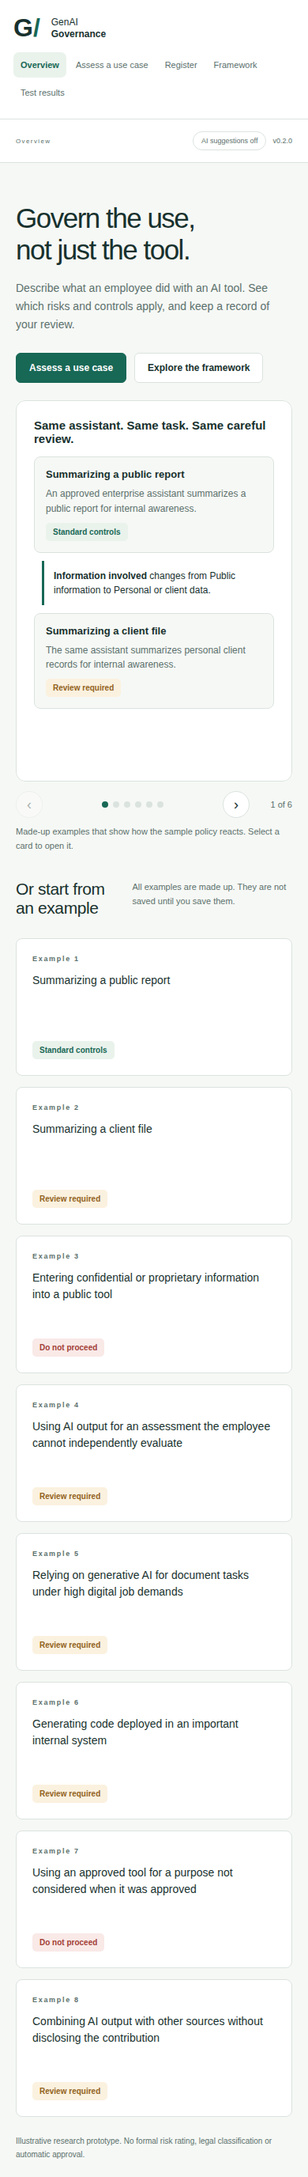
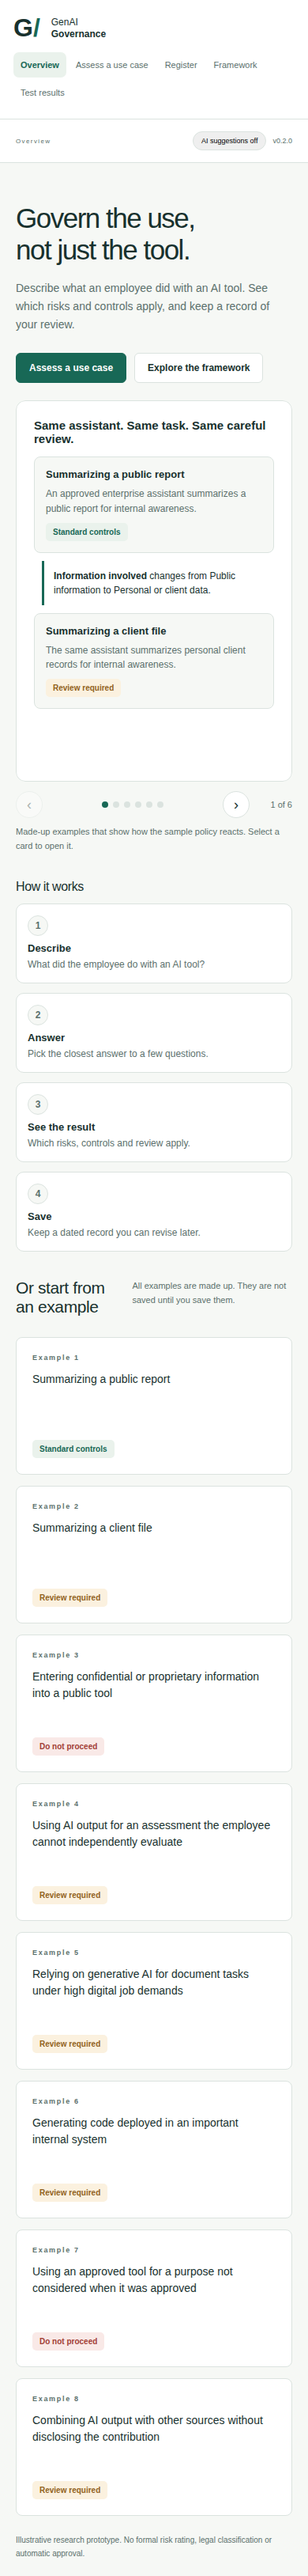
Explain the AI suggestions and add guidance to empty states
Make the header pill open a dialog that says what AI suggestions are, why
they are off and how to turn them on, or, when they are on, which provider is
used and a switch to pause them in this browser.

Add a short step-by-step strip to the overview and to the assessment page, the
latter marking each step as it is completed. Give the empty register a
three-step guide with a button to try an example. Rewrite the test results page
as three plain questions with their status, and show the real benchmark size.

diff --git a/web/app.js b/web/app.js
@@ -110,6 +110,85 @@ function show(page){
   }
   );
 }
+
+function copyText(text,btn){
+  const done=()=>{const old=btn.textContent;btn.textContent='Copied';setTimeout(()=>{btn.textContent=old;},1500);};
+  try{navigator.clipboard.writeText(text).then(done,()=>{});}catch(e){}
+}
+function openDialog(title,...children){
+  const d=el('dialog',{class:'modal','aria-label':title});
+  const close=el('button',{type:'button',class:'modal-close','aria-label':'Close'},'×');
+  close.addEventListener('click',()=>d.close());
+  d.addEventListener('click',e=>{if(e.target===d)d.close();});
+  d.addEventListener('close',()=>d.remove());
+  d.append(close,el('h2',{},title),...children);
+  document.body.append(d);
+  d.showModal();
+  return d;
+}
+function aiPaused(){
+  try{return localStorage.getItem('ai-paused')==='1';}catch(e){return false;}
+}
+function setAiPaused(v){
+  try{localStorage.setItem('ai-paused',v?'1':'0');}catch(e){}
+}
+function aiUsable(){return boot.live_enabled&&!aiPaused();}
+function updatePill(){
+  const pill=$('mode-label');
+  pill.textContent=!boot.live_enabled?'AI suggestions off':aiPaused()?'AI suggestions paused':'AI suggestions on';
+  pill.classList.toggle('on',aiUsable());
+}
+const ENV_SNIPPET='ENABLE_LIVE_CLASSIFICATION=1\nLLM_PROVIDER=openai\nLLM_MODEL=the-model-name-from-your-provider-account\nOPENAI_API_KEY=your-key';
+function openAiDialog(){
+  const body=[];
+  body.push(el('p',{},'On the Assess page, an AI model can read your description of what an employee did and suggest the answers to the questions. You always check the answers yourself, and the fixed rules (not the AI) decide the result.'));
+  if(!boot.live_enabled){
+    const pre=el('pre',{},ENV_SNIPPET);
+    const copy=el('button',{type:'button',class:'secondary button-small'},'Copy these lines');
+    copy.addEventListener('click',()=>copyText(ENV_SNIPPET,copy));
+    body.push(el('div',{class:'modal-state off'},'Right now: off'),
+      el('p',{},'It is off because it needs an account with an AI provider (OpenAI, Anthropic, Google or xAI) and a private key, which can cost a little money. While it is off, nothing you type leaves this computer, and you answer the questions yourself. Everything else in the app works normally.'),
+      el('h3',{},'To turn it on'),
+      el('ol',{class:'how'},
+        el('li',{},'Stop the app in the terminal with Ctrl+C.'),
+        el('li',{},'Run ',el('code',{},'python -m pip install -r requirements-llm.txt')),
+        el('li',{},'Copy ',el('code',{},'.env.example'),' to ',el('code',{},'.env'),' and fill in these lines with your own provider, model and key:',pre,copy),
+        el('li',{},'Start the app again with ',el('code',{},'python app.py'),'.')));
+    body.push(el('p',{class:'hint'},'There is no switch on this page because the key must stay in your own file. This app never asks you to type it here.'));
+  }else{
+    const label=el('label',{class:'checkbox'});
+    const box=el('input',{type:'checkbox',checked:!aiPaused()});
+    box.addEventListener('change',()=>{setAiPaused(!box.checked);updatePill();if(currentPage==='assess')renderAssess();});
+    label.append(box,'Use AI suggestions in this browser');
+    body.push(el('div',{class:'modal-state on'},'Right now: '+(aiPaused()?'paused':'on')),
+      el('p',{},'Provider: '+boot.provider+(boot.model?', model: '+boot.model:'')+'. A description is sent only when you tick the confirmation box and press "Suggest answers with AI". You can make up to '+(boot.daily_limit||'any number of')+' suggestions a day.'),
+      label,
+      el('p',{class:'hint'},'Untick to pause them here without changing any settings. To turn them off completely, set ENABLE_LIVE_CLASSIFICATION=0 in your .env file and restart the app.'));
+  }
+  openDialog('AI suggestions',...body);
+}
+
+function flow(steps,active=-1,done=[]){
+  const ol=el('ol',{class:'flow'});
+  steps.forEach((s,i)=>ol.append(el('li',{class:(done.includes(i)?'done ':'')+(i===active?'current':'')},
+    el('span',{class:'flow-dot'},done.includes(i)?'✓':String(i+1)),
+    el('strong',{},s[0]),el('span',{class:'flow-text'},s[1]))));
+  return ol;
+}
+const ASSESS_STEPS=[['Describe','Say what the employee did.'],['Answer','Pick the closest answer to each question.'],['Save','Add who owns and who reviewed it.']];
+function updateFlow(){
+  const holder=$('assess-flow');
+  if(!holder)return;
+  const described=!!(state.name.trim()||state.description.trim());
+  const answered=state.draft.forms.length>0||boot.dimensions.some(d=>state.draft[d.id]!==boot.unknown)||state.draft.approval_status!==boot.unknown;
+  const ready=!$('save-record').disabled;
+  const done=[];
+  if(described)done.push(0);
+  if(answered)done.push(1);
+  if(ready)done.push(2);
+  const active=[0,1,2].find(i=>!done.includes(i));
+  holder.replaceChildren(flow(ASSESS_STEPS,active===undefined?-1:active,done));
+}
 function newAssessment(example=null){
   state.draft=example?structuredClone(example.case):blankCase();
   state.name=example?example.name:'';
@@ -185,6 +264,7 @@ function renderOverview(){
       el('p',{class:'lead'},'Describe what an employee did with an AI tool. See which risks and controls apply, and keep a record of your review.'),
       el('div',{class:'actions'},button('Assess a use case',()=>newAssessment(),true),button('Explore the framework',()=>show('framework')))),
     pairCarousel()));
+  root.append(el('div',{class:'how-it-works'},el('h2',{},'How it works'),flow([['Describe','What did the employee do with an AI tool?'],['Answer','Pick the closest answer to a few questions.'],['See the result','Which risks, controls and review apply.'],['Save','Keep a dated record you can revise later.']])));
   root.append(el('div',{class:'section-head'},el('h2',{},'Or start from an example'),el('p',{},'All examples are made up. They are not saved until you save them.')));
   const cards=el('div',{class:'cards'});
   boot.examples.forEach((e,i)=>cards.append(el('button',{class:'sample',type:'button',on:{click:()=>newAssessment(e)}},
@@ -248,6 +328,7 @@ function updateSaveState(){
   if(!$('confirm-review').checked)missing.push('your confirmation');
   save.disabled=missing.length>0;
   $('save-hint').textContent=missing.length?'To save, add '+missing.join(', ')+'.':'';
+  updateFlow();
 }
 let assessmentTimer;
 async function refreshDecision(){
@@ -263,14 +344,14 @@ async function refreshDecision(){
 function renderAssess(){
   state.draft=state.draft||blankCase();
   const root=$('assess');
-  root.replaceChildren(heading(state.parentId?'Review an existing use case':'Assess a use case','Describe what happened, answer the questions, and the result updates as you go.'));
+  root.replaceChildren(heading(state.parentId?'Review an existing use case':'Assess a use case','Describe what happened, answer the questions, and the result updates as you go.'),el('div',{id:'assess-flow',class:'assess-flow'}));
   const grid=el('div',{class:'assess-grid'}),left=el('form',{id:'assessment-form'}),right=el('div',{id:'decision-panel'});
 
   const extraction=panel(el('h2',{class:'panel-title'},'Describe the activity'),
     field('Name',input('case-name',state.name)),
     field('What did the employee do?',el('textarea',{id:'description',maxlength:1500,placeholder:'Which tool, what information, what task, and how the output was used or checked.'},state.description)));
   const where=boot.live_enabled?boot.provider+(boot.model?' ('+boot.model+')':''):'';
-  if(boot.live_enabled){
+  if(aiUsable()){
     const consent=el('label',{class:'checkbox'},el('input',{id:'external-consent',type:'checkbox'}),'Send this description to '+where+'.');
     const classify=button('Suggest answers with AI',async()=>{
       readForm();
@@ -286,7 +367,9 @@ function renderAssess(){
     });
     extraction.append(consent,classify);
   }else{
-    extraction.append(el('p',{class:'hint'},'AI suggestions are off, so answer the questions yourself. Nothing you type leaves this computer.'));
+    const why=el('button',{type:'button',class:'link'},boot.live_enabled?'AI suggestions are paused. What is this?':'AI suggestions are off. What is this?');
+    why.addEventListener('click',openAiDialog);
+    extraction.append(el('p',{class:'hint'},'Nothing you type leaves this computer. ',why));
   }
 
   const answers=panel(el('h2',{class:'panel-title'},'Check the answers'));
@@ -391,9 +474,15 @@ async function renderRegister(){
       }
       ,el('h2',{
       }
-      ,records.length?'No matching records':'No assessments recorded yet'),el('p',{
+      ,records.length?'No matching records':'Nothing saved yet'),el('p',{
       }
-      ,'Explore a synthetic example, review its characteristics, and save an assessment to start your register.')));
+      ,records.length?'Try a different search.':'This is where your saved reviews will appear. It is empty because you have not saved one yet.')));
+      if(!records.length){
+        holder.append(el('div',{class:'panel register-empty'},el('h3',{},'Want to see how it works? Try this:'),
+          flow([['Open an example','It fills in the questions for you.'],['Look at the result','It shows the risks and controls on the right.'],['Save it','Add an owner and a reviewer, tick the box and press Save review. It then appears here.']]),
+          el('div',{class:'actions'},button('Try an example',()=>newAssessment(boot.examples[0]),true),button('Start from scratch',()=>newAssessment())),
+          el('p',{class:'hint'},'Everything you save stays in a file on this computer.')));
+      }
       return;
     }
     const table=el('table',{
@@ -558,61 +647,32 @@ function renderFramework(){
   }
   ,'Source: Delegeanu, D. (2026). The Use of Generative Artificial Intelligence in Banks: Governance, Risks, and Internal Controls. Bocconi University. Sections 3.2, 3.3 and 5.2-5.6.'));
 }
+function evidenceCard(status,tone,question,...children){
+  return el('div',{class:'panel evidence'},el('span',{class:'chip '+tone},status),el('h2',{},question),...children);
+}
 function renderValidation(){
   const root=$('validation');
-  root.replaceChildren(heading('Test results','Software tests, extraction evaluation and real-world effectiveness answer different questions. Keep their results separate.'),el('div',{
-    class:'danger-note'
-  }
-  ,el('strong',{
-  }
-  ,'Live-model accuracy is not established. '),'No model benchmark or banking effectiveness result is implied by a passing software test suite.'));
-  root.append(el('div',{
-    class:'validation-grid'
-  }
-  ,panel(el('div',{
-    class:'panel-label'
-  }
-  ,'01 / SOFTWARE BEHAVIOUR'),el('h2',{
-  }
-  ,'Run the offline checks'),el('p',{
-    class:'quiet'
-  }
-  ,'Test policy decisions, parsing, storage, revisions, export safety, API boundaries and the metadata hook without calling a model.'),el('pre',{
-  }
-  ,'python -m pytest -q\npython -m eval.run_eval --validate-only')),panel(el('div',{
-    class:'panel-label'
-  }
-  ,'02 / MODEL EXTRACTION'),el('h2',{
-  }
-  ,'Measure, then publish'),el('p',{
-    class:'quiet'
-  }
-  ,'The benchmark reports attempted cases, failures, per-field accuracy, risk-set agreement and missed escalations. Synthetic labels are not expert consensus.'),el('pre',{
-  }
-  ,'python -m eval.run_eval --live \\\n  --output eval/results/run.json')),panel(el('div',{
-    class:'panel-label'
-  }
-  ,'03 / REAL-WORLD VALIDITY'),el('h2',{
-  }
-  ,'Not demonstrated'),el('p',{
-    class:'quiet'
-  }
-  ,'The project has not been evaluated against original bank workflows, validated by an independent banking panel or shown to reduce operational losses.')),panel(el('div',{
-    class:'panel-label'
-  }
-  ,'04 / KNOWN BOUNDARIES'),el('h2',{
-  }
-  ,'Local, single-user prototype'),el('p',{
-    class:'quiet'
-  }
-  ,'No authenticated reviewer identity, encryption at rest, enterprise enforcement or tamper-proof audit store. A risk flag is not proof that a control operated.'))));
+  const b=boot.benchmark;
+  root.replaceChildren(heading('Test results','Three different questions about whether this works. Each has its own answer, and they should not be mixed up.'));
+  root.append(el('div',{class:'evidence-grid'},
+    evidenceCard('Checked automatically','ok','Does the software behave correctly?',
+      el('p',{},'Yes, as far as the automated tests go. They check that the rules give the same result every time, that saving and revising keep old records safe, that exports are safe to open in a spreadsheet, and that the pages load. One test tries every valid combination of answers (1,440 of them).'),
+      el('p',{class:'quiet'},'To run them yourself:'),el('pre',{},'python -m pip install -r requirements-dev.txt\npython -m pytest -q')),
+    evidenceCard('Not measured yet','todo','Does the AI suggest the right answers?',
+      el('p',{},'Live-model accuracy is not established. There is a practice set of '+b.prompts+' made-up descriptions covering '+b.scenarios+' situations, each with the answers I expect. Running it shows how often a model agrees with me. I have not published a result, and I wrote the expected answers myself, so no bank professional has checked them.'),
+      el('p',{class:'quiet'},'To run it you need AI suggestions switched on, and it costs a little money:'),el('pre',{},'python -m eval.run_eval --live --output eval/results/run.json')),
+    evidenceCard('Not tested','todo','Would it help in a real bank?',
+      el('p',{},'Unknown. It has not been tried on real bank processes, reviewed by an independent panel, or shown to reduce problems. The risks, controls and rules come from my thesis, which is a literature study, so treat them as a starting point for discussion.'))));
+  root.append(el('div',{class:'panel'},el('h2',{},'What this means for you'),
+    el('p',{},'You can rely on the rules to behave consistently, and you can see exactly why each outcome appeared. You should not treat any outcome as advice, a risk rating or an approval.'),
+    el('p',{class:'quiet'},'Limits of this prototype: it has no login, saved files are not encrypted, and the history is not tamper-proof. Use it on your own computer with made-up information.')));
 }
 document.querySelectorAll('nav button').forEach(b=>b.addEventListener('click',()=>show(b.dataset.page)));
 api('/api/bootstrap').then(data=>{
   boot=data;
   $('version').textContent='v'+boot.version;
-  $('mode-label').textContent=boot.live_enabled?'AI suggestions on':'AI suggestions off';
-  $('mode-label').title=boot.live_enabled?'Descriptions are sent to '+boot.provider+' only when you ask for a suggestion and confirm.':'Nothing you type leaves this computer. Turn AI suggestions on in .env (see the README).';
+  updatePill();
+  $('mode-label').addEventListener('click',openAiDialog);
   show('overview');
 }
 ).catch(e=>notice('Could not start the workspace: '+e.message,true));

diff --git a/web/style.css b/web/style.css
@@ -774,3 +774,42 @@ footer {
 .baseline{font-size:11px}
 @media(min-width:1101px){#decision-panel{position:sticky;top:16px;max-height:calc(100vh - 32px);overflow:auto}}
 @media(max-width:740px){.two-up{grid-template-columns:1fr}}
+
+#mode-label{cursor:pointer;font:inherit}
+#mode-label:hover{border-color:var(--accent)}
+#mode-label.on{color:var(--accent);border-color:var(--accent);background:var(--soft)}
+.modal{border:1px solid var(--line);border-radius:12px;padding:26px 28px;max-width:560px;width:calc(100% - 32px);color:var(--ink);background:#fff;box-shadow:0 12px 40px #18312e30}
+.modal::backdrop{background:#18312e55}
+.modal h2{font-size:18px;margin:0 28px 12px 0}
+.modal h3{font-size:13px;margin:18px 0 8px}
+.modal p,.modal li{font-size:13px;line-height:1.6}
+.modal-close{position:absolute;top:12px;right:14px;width:32px;height:32px;border:0;background:none;font-size:22px;color:var(--muted)}
+.modal-state{display:inline-block;font-size:11px;font-weight:700;padding:5px 9px;border-radius:5px;margin:4px 0 12px}
+.modal-state.off{background:var(--paper);color:var(--muted);border:1px solid var(--line)}
+.modal-state.on{background:var(--soft);color:var(--accent)}
+.modal pre{margin:8px 0;overflow:auto}
+.how{padding-left:20px;margin:0}
+.how li{margin-bottom:6px}
+code{background:var(--paper);padding:1px 5px;border-radius:4px;font-size:12px}
+.flow{list-style:none;display:grid;grid-auto-flow:column;grid-auto-columns:1fr;gap:12px;padding:0;margin:0;counter-reset:none}
+.flow li{position:relative;display:flex;flex-direction:column;gap:4px;padding:14px;background:#fff;border:1px solid var(--line);border-radius:10px}
+.flow li+li:before{content:"";position:absolute;left:-13px;top:28px;width:12px;border-top:2px solid var(--line)}
+.flow-dot{width:26px;height:26px;border-radius:50%;display:grid;place-items:center;font-size:12px;font-weight:700;background:var(--paper);border:1px solid var(--line);color:var(--muted);margin-bottom:4px}
+.flow strong{font-size:13px}
+.flow-text{font-size:12px;color:var(--muted);line-height:1.5}
+.flow li.current{border-color:var(--accent)}
+.flow li.current .flow-dot{background:var(--accent);color:#fff;border-color:var(--accent)}
+.flow li.done .flow-dot{background:var(--soft);color:var(--accent);border-color:var(--accent)}
+.how-it-works{margin:6px 0 34px}
+.how-it-works h2{font-size:16px;margin:0 0 12px}
+.assess-flow{margin-bottom:22px}
+.register-empty{margin-top:14px}
+.register-empty .flow{margin:14px 0 18px}
+.evidence-grid{display:grid;gap:16px;margin-bottom:20px}
+.evidence h2{font-size:16px;margin:10px 0 10px}
+.evidence p{font-size:13px;max-width:70ch}
+.chip{display:inline-block;font-size:11px;font-weight:700;padding:4px 9px;border-radius:999px}
+.chip.ok{background:var(--soft);color:var(--accent)}
+.chip.todo{background:#fbf1df;color:var(--amber)}
+button.link{background:none;border:0;padding:0;color:var(--accent);text-decoration:underline;font:inherit;font-size:inherit;cursor:pointer}
+@media(max-width:740px){.flow{grid-auto-flow:row}.flow li+li:before{display:none}}

diff --git a/web/index.html b/web/index.html
@@ -5,6 +5,6 @@
 <aside class="sidebar"><a class="brand" href="/">G<span>/</span><div>GenAI<br><strong>Governance</strong></div></a>
 <p class="eyebrow">Workspace</p><nav aria-label="Workspace"><button data-page="overview" aria-current="page">Overview</button><button data-page="assess">Assess a use case</button><button data-page="register">Register</button><button data-page="framework">Framework</button><button data-page="validation">Test results</button></nav>
 <div class="sidebar-footer"><span class="small-label">RESEARCH TO SOFTWARE</span><p>Davide Delegeanu<br><span>Bocconi thesis, 2026</span></p><a href="https://github.com/davidedele/genai-bank-governance" target="_blank" rel="noopener noreferrer">View source repository &nearr;</a><div class="local-indicator">Local workspace</div></div></aside>
-<div class="workspace"><header><div id="breadcrumb">WORKSPACE / OVERVIEW</div><div class="header-right"><span id="mode-label" class="status-neutral">AI suggestions off</span><span id="version"></span></div></header>
+<div class="workspace"><header><div id="breadcrumb">WORKSPACE / OVERVIEW</div><div class="header-right"><button id="mode-label" type="button" class="status-neutral" aria-haspopup="dialog">AI suggestions off</button><span id="version"></span></div></header>
 <main id="main" tabindex="-1"><div id="notice" role="status" aria-live="polite"></div><section id="overview" class="page"></section><section id="assess" class="page" hidden></section><section id="register" class="page" hidden></section><section id="framework" class="page" hidden></section><section id="validation" class="page" hidden></section></main>
 <footer>Illustrative research prototype. No formal risk rating, legal classification or automatic approval.</footer></div><script src="/static/app.js" defer></script></body></html>

diff --git a/app.py b/app.py
@@ -17,6 +17,7 @@ from storage import Store, ConflictError, export_csv, daily_limit_from_env
 from classifier import classify_with_metadata, ClassificationError
 from providers import current_model, current_provider_id, ProviderError
 from demo_examples import examples, lookalike_pairs
+from eval.cases import CASES
 from auto_log import read_metadata_events
 ROOT = Path(__file__).resolve().parent
 
@@ -101,7 +102,7 @@ def create_app(db_path: Path | None=None):
             model = current_model(provider)
         except ProviderError:
             pass
-        return {'token': token, 'version': APP_VERSION, 'unknown': UNKNOWN, 'dimensions': DIMENSIONS, 'approval_options': APPROVAL_OPTIONS, 'forms': FORMS_OF_USE, 'risks': RISK_AREAS, 'examples': [{**e, 'assessment': assess_use_case(e['case'])} for e in examples()], 'policy_version': load_policy()['version'], 'lookalikes': [{**p, 'a': {**p['a'], 'assessment': assess_use_case(p['a']['case'])}, 'b': {**p['b'], 'assessment': assess_use_case(p['b']['case'])}} for p in lookalike_pairs()], 'live_enabled': live, 'provider': provider, 'model': model, 'daily_limit': daily_limit_from_env()}
+        return {'token': token, 'version': APP_VERSION, 'unknown': UNKNOWN, 'dimensions': DIMENSIONS, 'approval_options': APPROVAL_OPTIONS, 'forms': FORMS_OF_USE, 'risks': RISK_AREAS, 'examples': [{**e, 'assessment': assess_use_case(e['case'])} for e in examples()], 'policy_version': load_policy()['version'], 'lookalikes': [{**p, 'a': {**p['a'], 'assessment': assess_use_case(p['a']['case'])}, 'b': {**p['b'], 'assessment': assess_use_case(p['b']['case'])}} for p in lookalike_pairs()], 'live_enabled': live, 'provider': provider, 'model': model, 'daily_limit': daily_limit_from_env(), 'benchmark': {'prompts': len(CASES), 'scenarios': len({c['scenario_id'] for c in CASES})}}
 
     @application.post('/api/assess')
     def assess(body: AssessRequest):

diff --git a/scripts/check_ui.py b/scripts/check_ui.py
@@ -41,6 +41,15 @@ with sync_playwright() as p:
     assert page.locator('.sample').count() == 8
     page.screenshot(path=str(root / 'overview-desktop.png'), full_page=True)
     report['checks'].append('Overview renders eight separated synthetic examples.')
+    page.locator('#mode-label').click()
+    assert page.locator('dialog.modal').get_by_text('To turn it on').is_visible()
+    page.screenshot(path=str(root / 'ai-dialog.png'))
+    page.locator('.modal-close').click()
+    report['checks'].append('The AI suggestions pill opens an explanation of why it is off and how to turn it on.')
+    page.get_by_role('button', name='Register', exact=False).click()
+    page.get_by_text('Nothing saved yet').wait_for()
+    page.screenshot(path=str(root / 'register-empty.png'), full_page=True)
+    page.get_by_role('button', name='Overview', exact=False).click()
     page.locator('.sample').first.click()
     page.locator('#decision-panel h2').first.wait_for()
     assert page.locator('#decision-panel h2').first.inner_text() == 'Standard controls'

diff --git a/tests/test_lookalikes.py b/tests/test_lookalikes.py
@@ -29,3 +29,10 @@ def test_bootstrap_serves_pairs_with_assessments(tmp_path):
     first = data['lookalikes'][0]
     assert first['a']['assessment']['outcome'] == 'Standard controls'
     assert first['b']['assessment']['outcome'] == 'Review required'
+
+
+def test_bootstrap_reports_benchmark_size(tmp_path):
+    from fastapi.testclient import TestClient
+    from app import create_app
+    data = TestClient(create_app(tmp_path / 'b.sqlite')).get('/api/bootstrap').json()
+    assert data['benchmark']['prompts'] >= data['benchmark']['scenarios'] > 0
